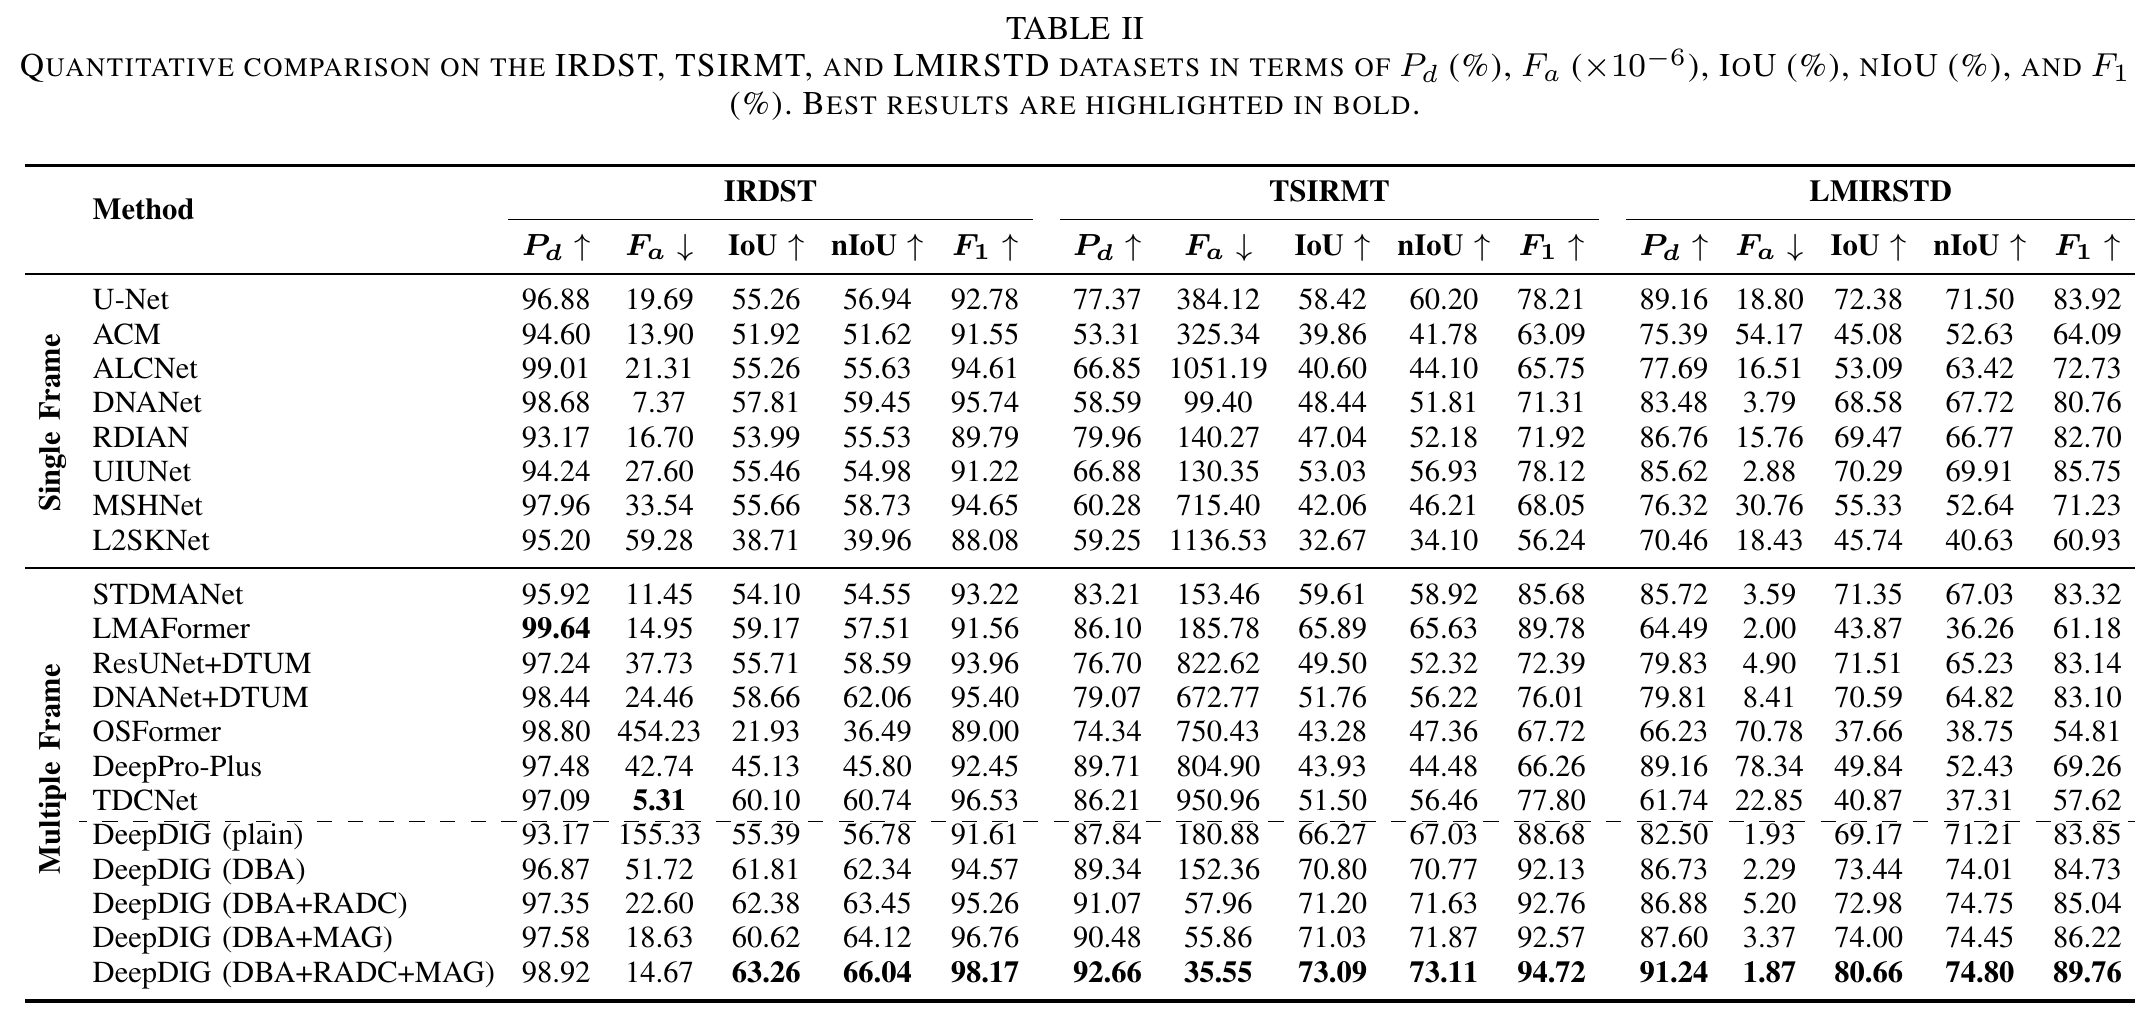
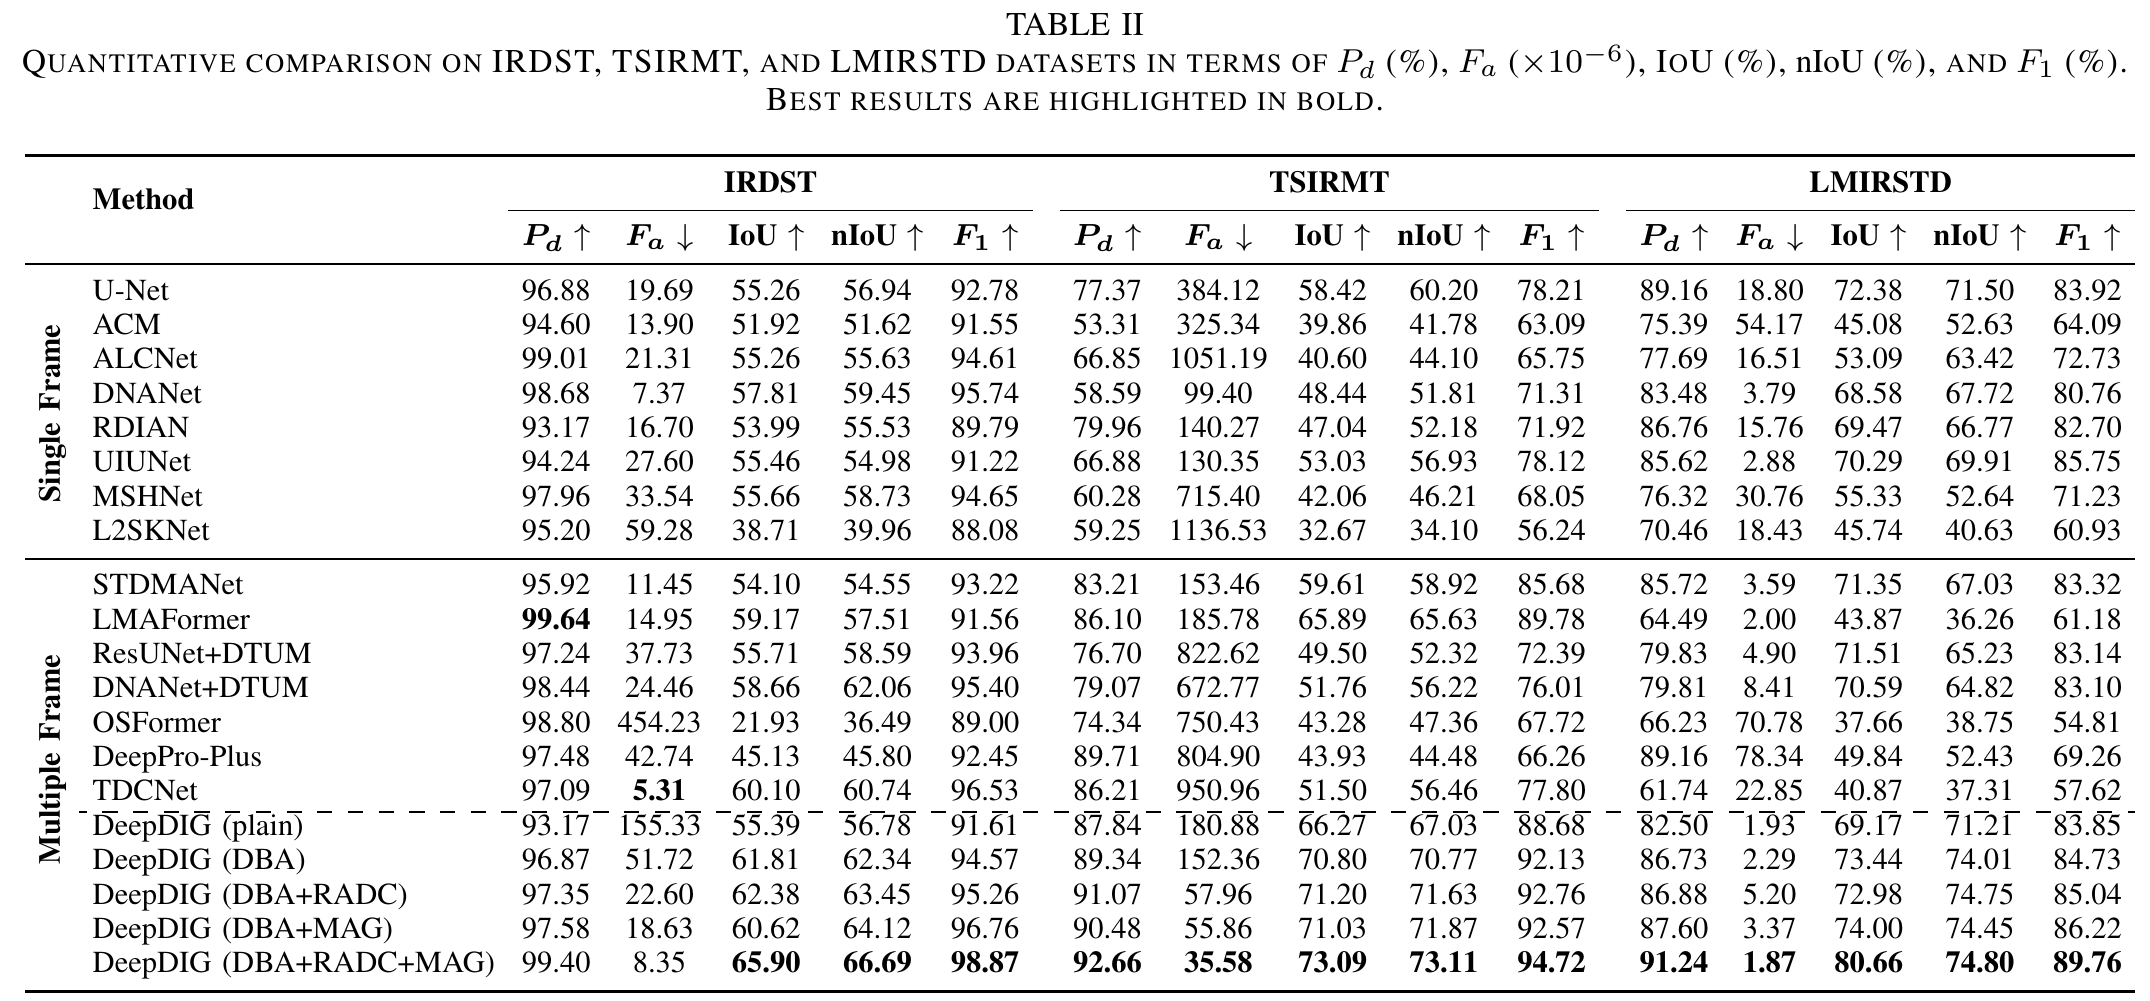
Update reported results from the latest TMM manuscript

Changed region(s): [[0.0, 0.1548, 0.9972, 1.0], [0.0, 0.0, 0.9972, 0.1239]]

diff --git a/CHANGELOG.md b/CHANGELOG.md
@@ -86,3 +86,14 @@ Align the project presentation with the supplied TMM manuscript. Public results 
 | `CHANGELOG.md` | No record of this presentation revision. | Records each updated file and its paper source. |
 
 All new figure assets are direct crops of the supplied PDF. Existing architecture, RATA, CADC, MAG and dataset illustrations are retained. Source edits affect only comments and docstrings: computational ASTs, checkpoint keys, model defaults, `test_deepdig.py`, `utils/metric.py`, data loading and dependencies are unchanged. Validation checks Python parsing, executable-AST equality, README local links, paper table values, figure crop boundaries and `git diff --check`.
+
+## Manuscript data synchronization (2026-10-22)
+
+Use the supplied latest TMM manuscript as the source for reported results.
+
+- Replace `assets/results_tmm.png` with a direct 300-dpi crop of the complete Table II on page 7, preserving all methods, datasets, ablations and the paper's emphasis.
+- Update the complete-model IRDST results from Pd 98.92, Fa 14.67, IoU 63.26, nIoU 66.04 and F1 98.17 to Pd 99.40, Fa 8.35, IoU 65.90, nIoU 66.69 and F1 98.87. Update TSIRMT Fa from 35.55 to 35.58. The other complete-model TSIRMT results and the LMIRSTD results are unchanged. Fa is reported in units of 10^-6; the other metrics are percentages.
+- Align the Figure 1 caption and alternative text with the paper's background-alignment comparison: the displayed responses are absolute frame differences, rather than intermediate feature responses.
+- Check the Table I dataset comparison, LMIRSTD statistics, Table III efficiency values and existing illustrations against the latest manuscript; retain their current presentation. Preserve the two-column figure grids, full Table II image and concise installation/checkpoint/test instructions.
+
+This is a manuscript presentation update, not a new inference or benchmark run. Model code, evaluation settings, dependencies and checkpoint download links are unchanged.

diff --git a/README.md b/README.md
@@ -8,11 +8,11 @@ This repository provides the **DBA + RADC + MAG** model, evaluation code and pre
 
 <table align="center">
   <tr>
-    <td align="center" valign="middle" width="50%"><img src="assets/alignment_example_tmm.png" alt="Figure 1: frame differences and feature responses under background motion" width="460"></td>
+    <td align="center" valign="middle" width="50%"><img src="assets/alignment_example_tmm.png" alt="Figure 1: absolute frame differences before and after background alignment on LMIRSTD" width="460"></td>
     <td align="center" valign="middle" width="50%"><img src="assets/architecture_tmm.png" alt="Figure 2: DeepDIG architecture with static, DBA, difference and dynamic paths" width="460"></td>
   </tr>
   <tr>
-    <td align="center" valign="top"><strong>Figure 1.</strong> Frame differences and feature responses under background motion.</td>
+    <td align="center" valign="top"><strong>Figure 1.</strong> Qualitative comparison of background alignment on LMIRSTD.</td>
     <td align="center" valign="top"><strong>Figure 2.</strong> DeepDIG aligns historical frames and combines static, difference and dynamic features for detection.</td>
   </tr>
 </table>
